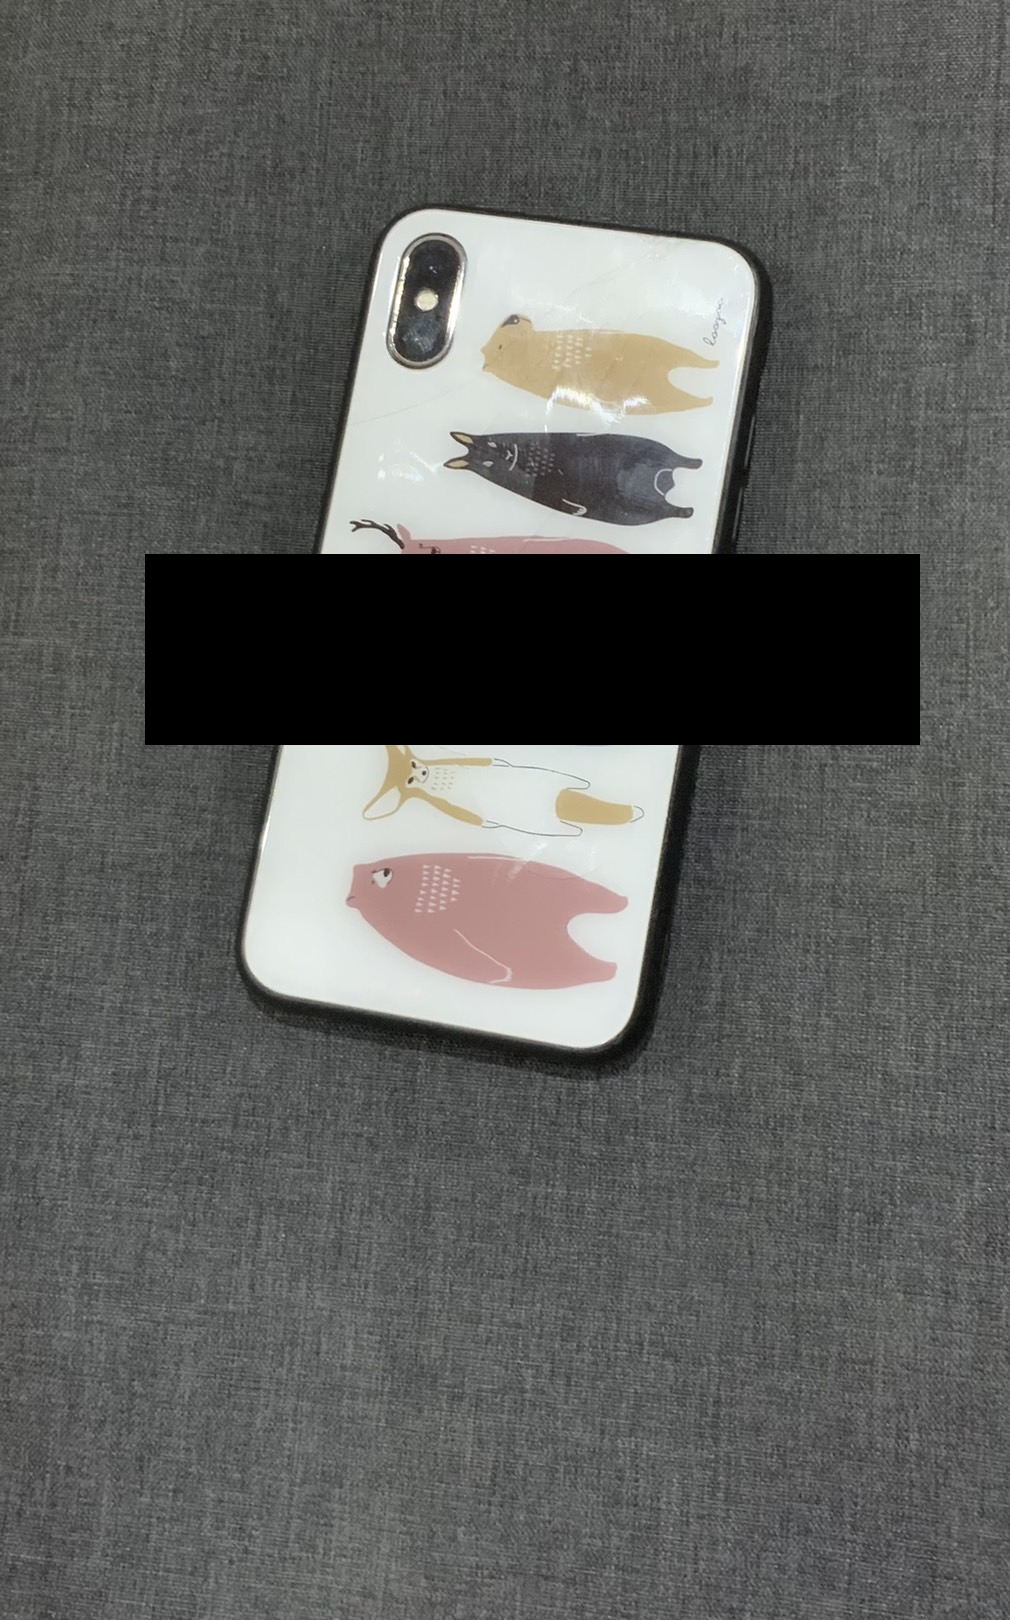
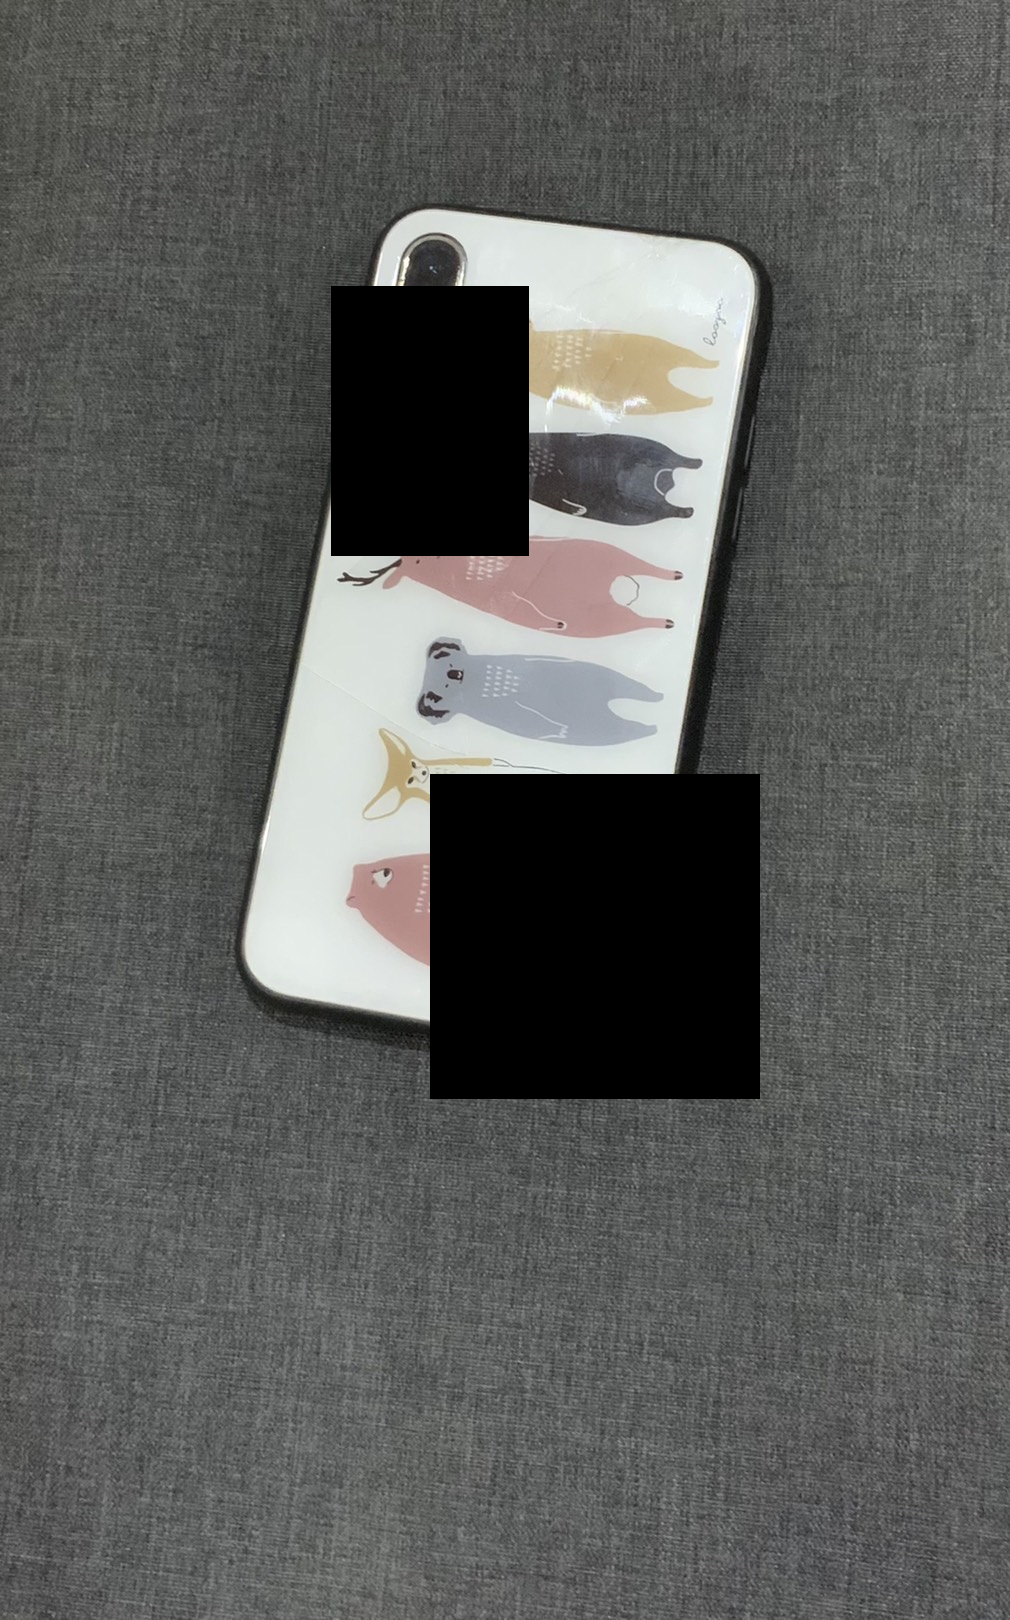
from mac

Changed region(s): [[0.1228, 0.1543, 0.9208, 0.679]]

diff --git a/Converter/Mask.py b/Converter/Mask.py
@@ -14,8 +14,14 @@ def printCoor(event,x,y,flags,param):
 
 def Mask():
     ano = img.copy()
-    cv2.rectangle(ano, (list_x[0], list_y[0]), (list_x[1], list_y[1]), 
-                  (0, 0, 0), thickness=-1)
+    i = 0
+    while True:
+        if not(i == len(list_x)): 
+            cv2.rectangle(ano, (list_x[i], list_y[i]), (list_x[i+1], list_y[i+1]), 
+                          (0, 0, 0), thickness=-1)
+            i = i + 2
+        else:
+            break
     cv2.imwrite(r"/Users/genkitakasaki1/Desktop/git/Studio-Incense/Studio-Incense/converter/pic/ano2.png", ano)
 
 

diff --git a/Converter/Contour.py b/Converter/Contour.py
@@ -6,12 +6,18 @@ gray = cv2.cvtColor(image, cv2.COLOR_BGR2GRAY)
 
 ret, thresh = cv2.threshold(gray, 150, 250, cv2.THRESH_BINARY)
 
-contours, hierarchy = cv2.findContours(image = thresh, mode = cv2.RETR_TREE, method = cv2.CHAIN_APPROX_NONE)
+contours, hierarchy = cv2.findContours(image = thresh, mode = cv2.RETR_EXTERNAL, method = cv2.CHAIN_APPROX_NONE)
 
 image_copy = image.copy()
+
+
 cv2.drawContours(image = image_copy, contours = contours, 
                  contourIdx = -1, color = (0, 255, 0), 
                  thickness = 2, lineType = cv2.LINE_AA)
+
+
+
+
 
 
 
